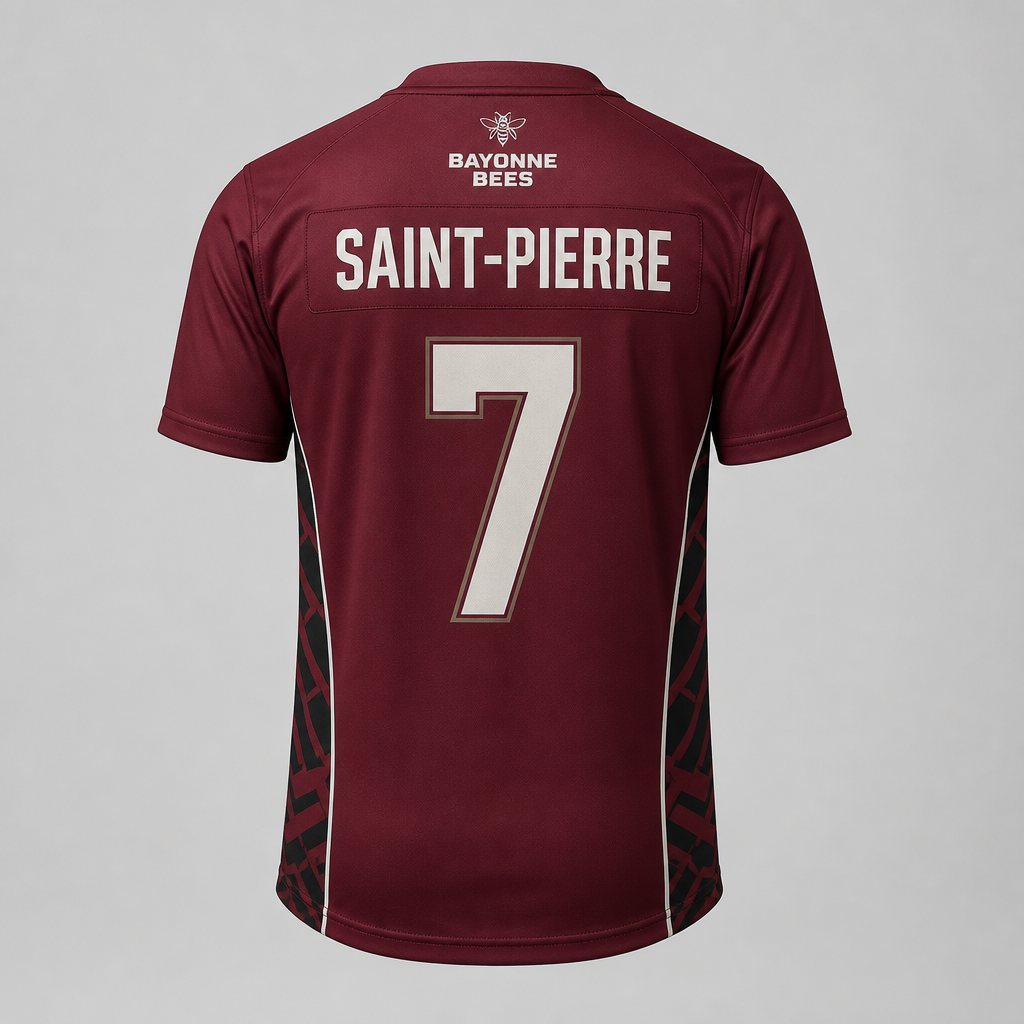
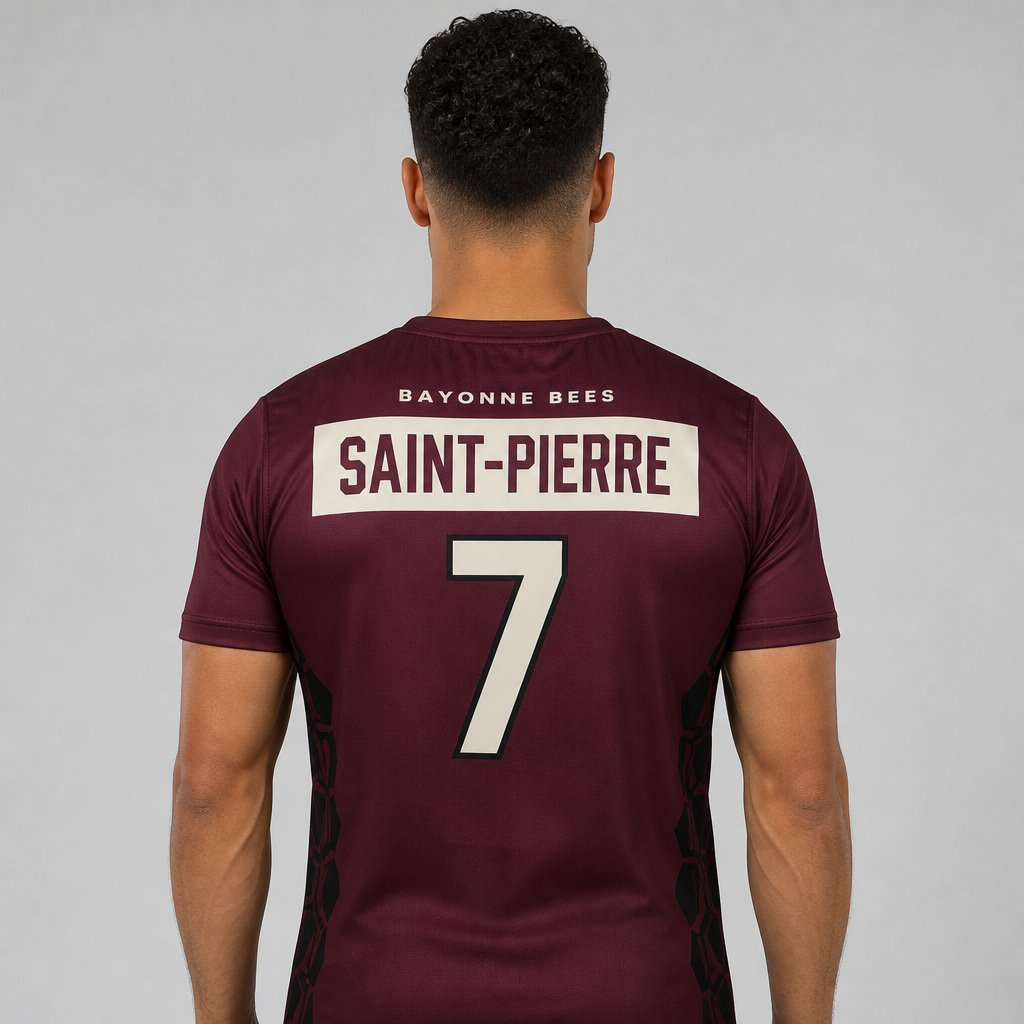
Polish campaign heroes and PDP photos; drop spirit skirt set
Refresh landing and product photography in a Behance jersey-campaign
style without manufacturer branding, improve category heroes, and remove
the spirit skirt set from the catalog and Merchize listing map.

diff --git a/src/lib/catalog.ts b/src/lib/catalog.ts
@@ -72,7 +72,7 @@ export const CATEGORIES: Category[] = [
   },
 ];
 
-/** Base field + three alternate geometric motifs (Adidas-heritage, no trademarks). */
+/** Base field + three alternate geometric motifs (kit-campaign heritage, no trademarks). */
 export const MOTIFS: {
   id: MotifId;
   label: string;
@@ -184,18 +184,6 @@ export const PRODUCTS: CatalogProduct[] = [
     nameNumber: true,
     thumb: mockHoops,
     gallery: [mockHoops],
-  },
-  {
-    id: "spirit-skirt-set",
-    handle: "bayonne-bees-spirit-skirt-set",
-    name: "Spirit Skirt Set",
-    blurb: "Crop jersey + pleated skirt. School motif, clean number.",
-    category: "spirit",
-    price: 78,
-    customizable: true,
-    nameNumber: true,
-    thumb: heroSpirit,
-    gallery: [heroSpirit],
   },
   {
     id: "jersey-dress",

diff --git a/src/routes/team.index.tsx b/src/routes/team.index.tsx
@@ -1,7 +1,7 @@
 import { Link, createFileRoute } from "@tanstack/react-router";
 
 import logo from "@/assets/bayonne/bayonne-bees-logo.png";
-import hero from "@/assets/bayonne/heroes/hero-kit-studio.jpg";
+import hero from "@/assets/bayonne/heroes/hero-landing.jpg";
 import { countdownParts } from "@/lib/kit";
 import { BAYONNE_BEES_KIT } from "@/lib/kits/bayonne-bees";
 

diff --git a/docs/MERCHIZE_LISTING_MAP.md b/docs/MERCHIZE_LISTING_MAP.md
@@ -4,7 +4,7 @@ Supplier: **Merchize** (Shopify app sync)
 Brand: **Bayonne Bees** · No Parade F.C. Team Customs  
 Palette: Maroon `#5A1626` · Black `#0A0A0A` · Bone `#F4F1F0` · optional sting gold outline `#C9A96A`  
 Motif: School kit (crest + wordmark + number) + design-forward geometric accents  
-Style bar: Adidas-quality heroes — **no Adidas trademarks / 3-stripe / wordmarks**
+Style bar: Behance kit-campaign heroes — **no manufacturer trademarks / 3-stripe / wordmarks**
 
 ---
 
@@ -65,12 +65,11 @@ Extra tag when customizable: `custom-name-number`
 | 2 | `bayonne-bees-shorts` | Matching athletic shorts | **Core** | Optional side | `bottom` |
 | 3 | `bayonne-bees-full-set` | Jersey + shorts set (or bundle) | **Core** | Yes — jersey | `set` |
 | 4 | `bayonne-bees-hoops-jersey` | Basketball sleeveless jersey tank | Spirit | Yes — chest/back | — |
-| 5 | `bayonne-bees-spirit-skirt-set` | Cropped V-neck jersey + pleated skirt | Spirit | Number + crest | — |
-| 6 | `bayonne-bees-jersey-dress` | Basketball jersey dress | Spirit | Crest / small # | — |
-| 7 | `bayonne-bees-crewneck` | AOP crewneck sweatshirt | Warm-up | Crest or back name | — |
-| 8 | `bayonne-bees-ls-jersey` | Long-sleeve V-neck athletic jersey | Warm-up | Script front + Name/# back | — |
-| 9 | `bayonne-bees-quarter-zip` | Quarter-zip pullover | Warm-up | Chest crest only | — |
-| 10 | `bayonne-bees-geo-shorts` | AOP geometric lifestyle shorts | Separate | Soft brand mark | — |
+| 5 | `bayonne-bees-jersey-dress` | Basketball jersey dress | Spirit | Crest / small # | — |
+| 6 | `bayonne-bees-crewneck` | AOP crewneck sweatshirt | Warm-up | Crest or back name | — |
+| 7 | `bayonne-bees-ls-jersey` | Long-sleeve V-neck athletic jersey | Warm-up | Script front + Name/# back | — |
+| 8 | `bayonne-bees-quarter-zip` | Quarter-zip pullover | Warm-up | Chest crest only | — |
+| 9 | `bayonne-bees-geo-shorts` | AOP geometric lifestyle shorts | Separate | Soft brand mark | — |
 
 **Launch set (ship first):** #1–3, then #7, #4. Rest wave 2.
 
@@ -148,18 +147,7 @@ Same art as #1 + #2. Listing can be Merchize set SKU or Shopify bundle of the tw
 | Binding | Neck + armholes | Maroon–bone–maroon stripe rib |
 | Side inserts | Optional | Subtle geo |
 
-### 5. Spirit skirt set (`bayonne-bees-spirit-skirt-set`)
-
-**Crop jersey**
-| Zone | Art |
-|---|---|
-| Center number | Large block # |
-| Left chest | Varsity letter / crest |
-| Sleeve | Twin bone stripes (not Adidas 3-stripe — use **two** thin rules or broken geo dashes) |
-
-**Skirt:** solid maroon or black pleats; optional small crest near hem.
-
-### 6. Jersey dress (`bayonne-bees-jersey-dress`)
+### 5. Jersey dress (`bayonne-bees-jersey-dress`)
 
 | Zone | Art |
 |---|---|
@@ -167,7 +155,7 @@ Same art as #1 + #2. Listing can be Merchize set SKU or Shopify bundle of the tw
 | Binding | Black–bone–black |
 | Side panels | Optional geo wash |
 
-### 7. Crewneck (`bayonne-bees-crewneck`)
+### 6. Crewneck (`bayonne-bees-crewneck`)
 
 | Zone | Art |
 |---|---|
@@ -175,7 +163,7 @@ Same art as #1 + #2. Listing can be Merchize set SKU or Shopify bundle of the tw
 | Chest | Optional small crest if AOP is quiet enough; else crest-free AOP |
 | Back | Optional name bar only (no huge number) |
 
-### 8. Long-sleeve jersey (`bayonne-bees-ls-jersey`)
+### 7. Long-sleeve jersey (`bayonne-bees-ls-jersey`)
 
 | Zone | Art |
 |---|---|
@@ -183,7 +171,7 @@ Same art as #1 + #2. Listing can be Merchize set SKU or Shopify bundle of the tw
 | Sleeve | Small crest |
 | Back | Name + number (shared lettering table) |
 
-### 9. Quarter-zip (`bayonne-bees-quarter-zip`)
+### 8. Quarter-zip (`bayonne-bees-quarter-zip`)
 
 | Zone | Art |
 |---|---|
@@ -191,7 +179,7 @@ Same art as #1 + #2. Listing can be Merchize set SKU or Shopify bundle of the tw
 | Body | Tonal geo / marble distress in maroon-black-grey |
 | No back number | — |
 
-### 10. Geo lifestyle shorts (`bayonne-bees-geo-shorts`)
+### 9. Geo lifestyle shorts (`bayonne-bees-geo-shorts`)
 
 | Zone | Art |
 |---|---|
@@ -212,19 +200,20 @@ Same art as #1 + #2. Listing can be Merchize set SKU or Shopify bundle of the tw
 
 ---
 
-## Hero images (Adidas-quality bar)
+## Hero images (Behance kit-campaign bar)
 
 Asset folder: `src/assets/bayonne/heroes/`
 
 | ID | File | Outfit | Setting | Use |
 |---|---|---|---|---|
-| H1 | `hero-kit-studio.jpg` | Jersey + shorts, ball at hip | Studio, maroon/black diagonal field | `/team`, jersey PDP |
-| H2 | `hero-spirit-gym.jpg` | Jersey dress or skirt set | Indoor court | Spirit SKUs |
-| H3 | `hero-crewneck-studio.jpg` | Geo crewneck | Neutral grey studio | Sweats PDP |
-| H4 | `hero-field-lifestyle.jpg` | Jersey + shorts on field | Daylight, shallow DOF | Landing / ads |
-| H5 | `hero-ls-rack.jpg` | LS jersey front + back | Minimal hanger rack | Explains Name/Number |
+| H0 | `hero-landing.jpg` | Match jersey lifestyle | Floodlit pitch, cinematic | `/team` landing |
+| H1 | `hero-kit-studio.jpg` | Jersey + shorts, ball at hip | Maroon studio + diagonal band | Core category / kit PDP |
+| H2 | `hero-spirit-gym.jpg` | Jersey dress | Indoor court | Spirit category |
+| H3 | `hero-crewneck-studio.jpg` | Geo crewneck | Neutral grey studio | Warm-up |
+| H4 | `hero-field-lifestyle.jpg` | Jersey lifestyle | Pitch / campaign | Lifestyle |
+| H5 | `hero-ls-rack.jpg` | LS jersey front + back | Minimal hanger rack | Name/Number education |
 
-Strip all Merchize watermarks from finals.
+No manufacturer logos or 3-stripe marks on finals.
 
 ### Base mockups
 

diff --git a/src/assets/bayonne/README.md b/src/assets/bayonne/README.md
@@ -2,24 +2,25 @@
 
 | Folder | Contents |
 |---|---|
-| `./` | Logo + landing composite hero |
-| `mockups/` | Merchize base design mockups (maroon/black/bone) |
-| `heroes/` | Adidas-quality campaign / PDP heroes |
+| `./` | Logo + archive composites |
+| `mockups/` | Clean PDP product photography (maroon/black/bone) |
+| `heroes/` | Behance-style kit campaign heroes |
 
-Placement instructions and Shopify handles: [`docs/MERCHIZE_LISTING_MAP.md`](../../../docs/MERCHIZE_LISTING_MAP.md).
-
-## Mockups
-
-- `mock-jersey-front.jpg` / `mock-jersey-back.jpg` — core kit jersey
-- `mock-shorts.jpg` — matching shorts
-- `mock-crewneck.jpg` — AOP geo sweatshirt
-- `mock-hoops-jersey.jpg` — basketball tank
-- `mock-quarter-zip.jpg` — warm-up layer
+Placement + handles: [`docs/MERCHIZE_LISTING_MAP.md`](../../../docs/MERCHIZE_LISTING_MAP.md).
 
 ## Heroes
 
-- `hero-kit-studio.jpg` — H1 kit (diagonal studio)
-- `hero-field-lifestyle.jpg` — H4 field lifestyle
-- `hero-spirit-gym.jpg` — H2 spirit / jersey dress
-- `hero-crewneck-studio.jpg` — H3 crewneck
-- `hero-ls-rack.jpg` — H5 name/number education
+- `hero-landing.jpg` — `/team` full-bleed landing
+- `hero-kit-studio.jpg` — Core category (diagonal studio)
+- `hero-spirit-gym.jpg` — Spirit category
+- `hero-crewneck-studio.jpg` — Warm-up
+- `hero-field-lifestyle.jpg` — Lifestyle
+- `hero-ls-rack.jpg` — Name/number education
+
+## Mockups (PDP)
+
+- `mock-jersey-front.jpg` / `mock-jersey-back.jpg`
+- `mock-shorts.jpg`
+- `mock-crewneck.jpg`
+- `mock-hoops-jersey.jpg`
+- `mock-quarter-zip.jpg`
